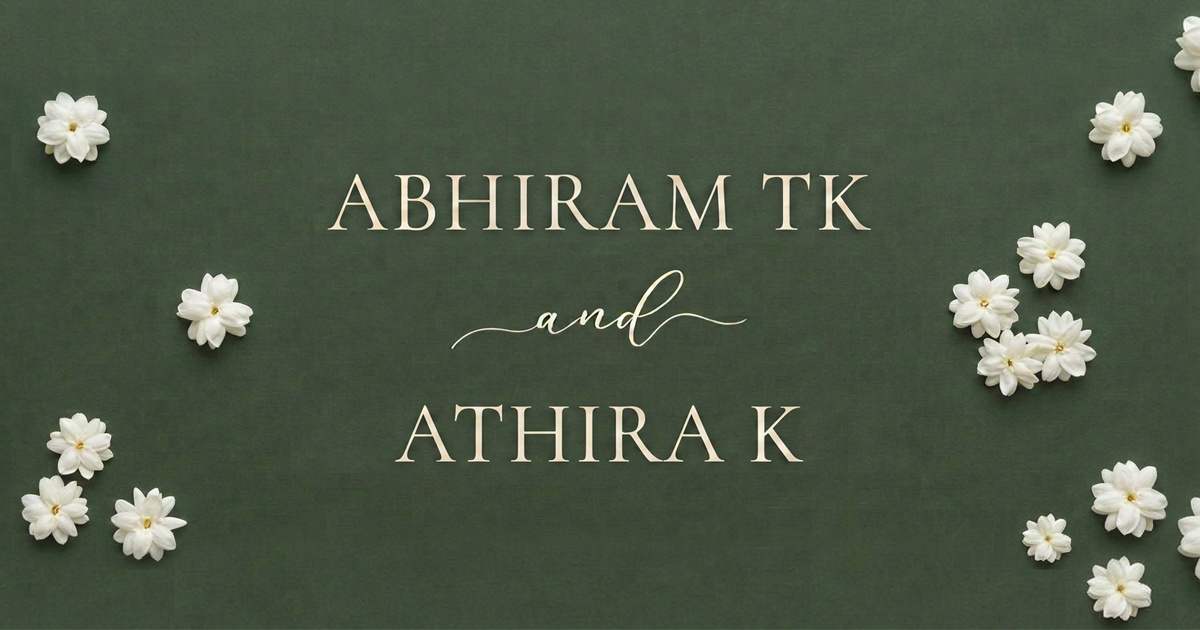
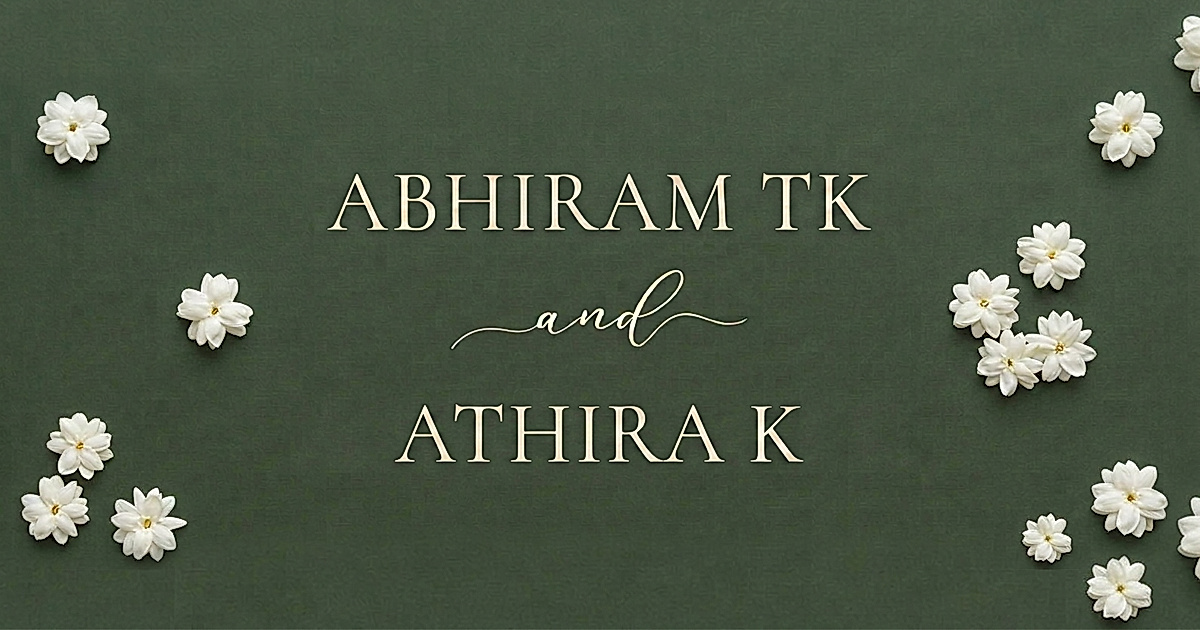
Pre-sharpen OG image so text survives WhatsApp's recompression
Simulated WhatsApp's aggressive preview pipeline (downscale to ~480px
+ heavy JPEG recompression) locally and confirmed it reproduces the
reported blur even from our clean source. Applying an unsharp mask
before export measurably holds text edge definition through that
downstream re-encoding, at the cost of a slightly larger file
(267KB, still under WhatsApp's 300KB cap).

Claude-Session: https://claude.ai/code/session_01CFtpnoFG4jMc3UvEwJTxfM

diff --git a/app/layout.tsx b/app/layout.tsx
@@ -29,7 +29,7 @@ export const metadata: Metadata = {
     type: "website",
     images: [
       {
-        url: "/assets/og-image.jpg?v=9",
+        url: "/assets/og-image.jpg?v=10",
         width: 1200,
         height: 630,
         type: "image/jpeg",
@@ -40,7 +40,7 @@ export const metadata: Metadata = {
     card: "summary_large_image",
     title: "Abhiram TK & Athira K — Wedding Invitation",
     description: "Join us to celebrate the wedding of Abhiram TK & Athira K, November 2026.",
-    images: ["/assets/og-image.jpg?v=9"],
+    images: ["/assets/og-image.jpg?v=10"],
   },
 };
 
